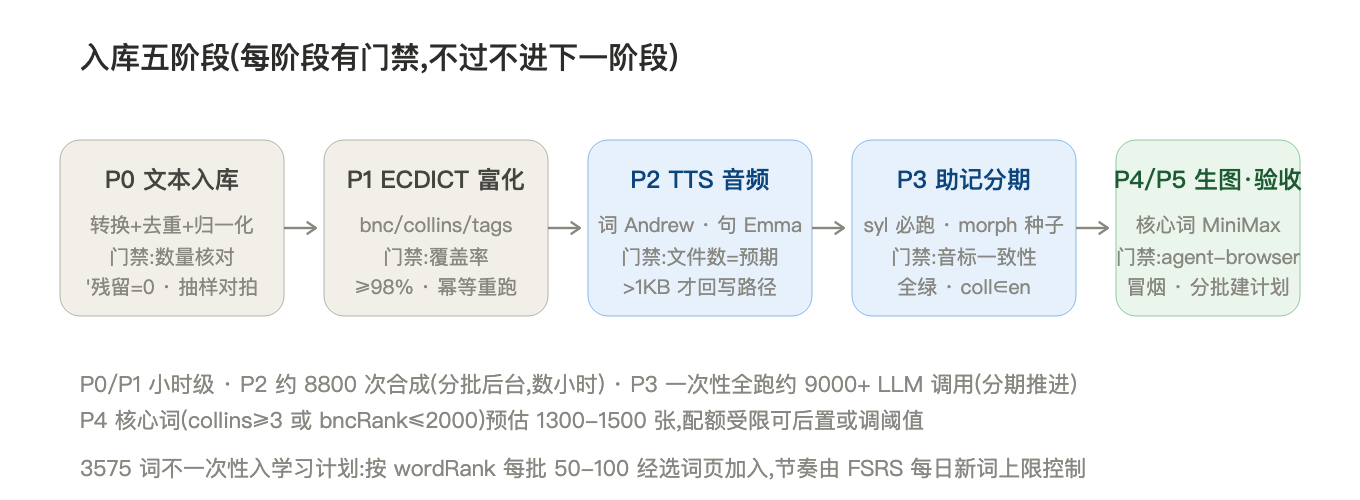
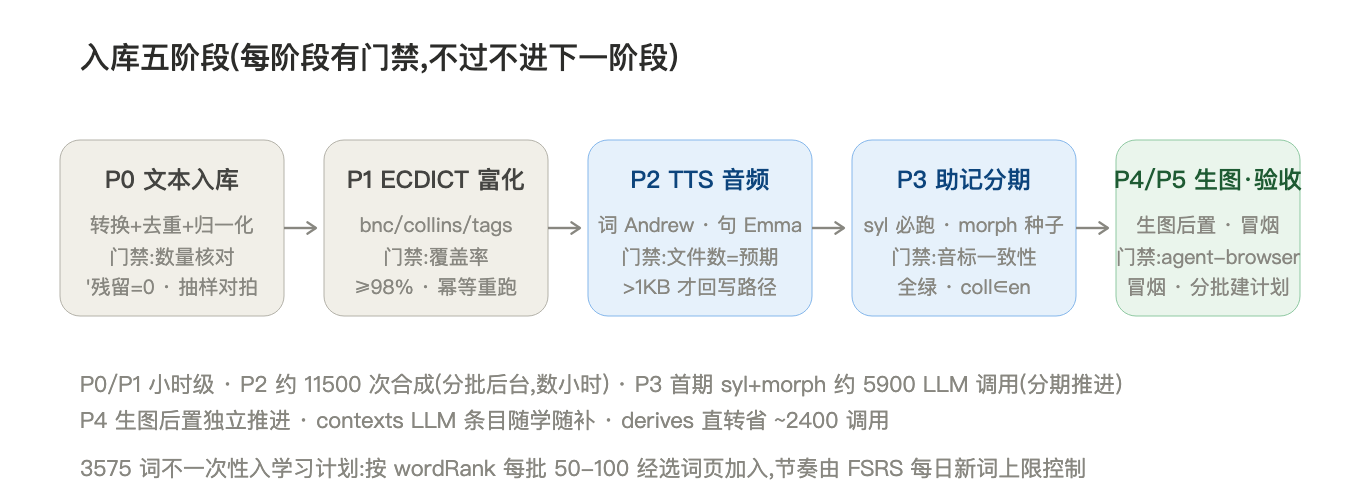
docs: 入库计划决策点落锤(D1-D6)+例句全取修订;v2.9 契约(coll 可选/morphSeed/WordContext)

Changed region(s): [[0.0618, 0.75, 0.8338, 0.87], [0.8338, 0.42, 0.9574, 0.48]]

diff --git a/src/db/schema.ts b/src/db/schema.ts
@@ -593,6 +593,21 @@ export interface WordCollocation {
   /** 词组中文,如 "取消；抵销"(可空) */
   cn?: string;
 }
+/** 真实语境条目(v2.5 单字段自含词组 + 例句音频;v2.9 例句全取时 coll 转可选) */
+export interface WordContext {
+  /** 词组英文(句中高亮锚点,可空——无词组命中的例句省略,渲染兜底高亮词头) */
+  coll?: string;
+  /** 词组中文(可空) */
+  collZh?: string;
+  /** 例句英文 */
+  en: string;
+  /** 例句中文(可空) */
+  cn?: string;
+  /** 例句音频路径(空表示未生成) */
+  audio?: string;
+  /** 血缘:example=回填/导入从例句复制;缺省=LLM 生成 */
+  src?: "llm" | "example";
+}
 export interface WordContent {
   /** 中文释义(多行,百词斩 mean_cn 按 "；" 拆) */
   translation: string[];
@@ -602,6 +617,10 @@ export interface WordContent {
   examples: WordExample[];
   /** 独立词组清单(可空,v2.8 词书源落库;contexts 仍为渲染唯一来源,见 docs/单词助记系统设计.md §2.4) */
   collocations?: WordCollocation[];
+  /** 真实语境(可空,LLM 生成 + 例句回填/导入双来源,见 docs/单词助记系统设计.md §2.4 v2.9) */
+  contexts?: WordContext[];
+  /** 构词拆分原文种子(可空,v2.9 词书 remMethod 原样整存,gen-mnemonic prompt 种子 + 血缘留档) */
+  morphSeed?: string;
   /** 词根拆解(可空,ECDICT wordroot.txt) */
   root?: string;
   /** 词形变化/重点短语(可空,百词斩 sentence_phrase / ECDICT exchange) */

diff --git a/src/components/vocab/mnemonic-radial.tsx b/src/components/vocab/mnemonic-radial.tsx
@@ -54,7 +54,8 @@ export interface MnDerive {
   meaningZh: string;
 }
 export interface MnContext {
-  coll: string;
+  /** 词组高亮锚点(可选 v2.9:全部例句入 contexts 时无词组命中的句子省略,渲染兜底高亮词头) */
+  coll?: string;
   collZh?: string;
   en: string;
   cn?: string;

diff --git a/docs/新东方雅思词汇3575入库计划.md b/docs/新东方雅思词汇3575入库计划.md
@@ -1,6 +1,6 @@
 # 新东方雅思词汇 3575 入库计划
 
-> 状态:**待拍板**(§7 决策点确认后动工) · 2026-09-07
+> 状态:**已拍板,实施中**(§7 决策点 2026-09-07 全部确认;D3 修订为例句全取,生图/contexts LLM 后置) · 2026-09-07
 > 数据源:`~/Downloads/新东方雅思词汇.json`(bookId=IELTS_3,百词斩导出 JSONL,5.8MB,3575 词)
 > 关联:`docs/单词助记系统设计.md` §2.4(v2.8 collocations 回归)、`scripts/backfill-collocations.mjs`(已上线)
 
@@ -20,7 +20,7 @@
 | --- | --- | --- | --- |
 | `trans` | **100%** | 中文释义(tranCn)+ POS + 英文释义(tranOther) | `translation[]` / `definition[]` |
 | `ukphone` / `usphone` | 99.5% / 98% | 英美音标(**重音符是 `'` 非 IPA `ˈ`**) | `phonetic_uk` / `phonetic_us`(归一化) |
-| `sentence` | 96.4%(5587 句) | 中英对照例句,每词 1–3 条 | `examples[]`(取前 2) |
+| `sentence` | 96.4%(5587 句) | 中英对照例句,每词 1–3 条 | **全部** → `contexts[]`(`src:"example"`);首条另存 `examples[0]`(默写卡判分用) |
 | `relWord` | 81% | 同根词(hwd/tran/pos) | `derives[]` **直转**(决策点 D2) |
 | `phrase` | 70%(2500 词) | 词组搭配(pContent/pCn) | `collocations[]`(v2.8 已有规则) |
 | `remMethod` | 67.5%(2413 词) | 词根拆分记忆法原文 | `morphSeed`(决策点 D1) |
@@ -42,9 +42,9 @@
 | `usphone` | `words.phonetic_us` | 同上 |
 | `trans[].pos + tranCn` | `contentJson.translation[]` | 首段 `pos.段1`,余段按 "；" 拆,清洗 `tranCn` 内不规则空格(`取消， 废除` → `取消，废除`) |
 | `trans[].tranOther` | `contentJson.definition[]` | 多词条合并 |
-| `sentence.sentences` | `contentJson.examples[]` | 取**前 2 条** `{en, cn}`(决策点 D3);音频 P2 阶段合成回写 |
+| `sentence.sentences` | `contentJson.contexts[]` + `examples[0]` | **例句全取**(决策点 D3 修订):全部例句进 `contexts[]` `{en, cn, audio?, src:"example"}`,词组命中条带 `coll/collZh`;首条同时写 `examples[0]`(语境默写卡 `exampleBlank` 判分唯一来源);音频 P2 阶段合成回写 |
 | `phrase.phrases` | `contentJson.collocations[]` | 复用 v2.8 规则:`{phrase, cn}`,去空格、词组=单词本身剔除、大小写去重 |
-| 例句 ⊃ 词组 | `contentJson.contexts[]` 追加 | v2.8 回填规则:精确包含(小写、不做屈折)→ `{coll, collZh, en, cn, audio: 复用例句音频, src: "example"}`;同 coll 已存在跳过 |
+| 例句 ⊃ 词组 | `contexts[]` 条目带锚点 | 例句精确包含词组(小写)→ 该 contexts 条目补 `{coll: phrase, collZh: cn}`;未命中条目省略 `coll`(v2.9 契约,coll 可选,渲染兜底高亮词头) |
 | `relWord.rels` | `contentJson.derives[]` | **直转**:`hwd→word, tran→meaningZh, pos→标准缩写(n./v./adj./adv.)`,上限 5 条(决策点 D2) |
 | `remMethod.val` | `contentJson.morphSeed`(新字段,string 可空) | 拆分原文整存(如 `pre(预先) + par(安排) + e → 提前安排 → 准备，预备`),gen-mnemonic 作 prompt 种子,生成 morph 后保留作血缘(决策点 D1) |
 | `wordRank` | `book_word_relation.order` | 学习序即词书序(乱序版更科学,但本书为正序版,order 按原序) |
@@ -60,7 +60,7 @@
 新脚本 `scripts/import-xdf-ielts.mjs`(复用 `import-vocab-pipeline.mjs` 的 better-sqlite3+drizzle 直写模式与 `backfill-collocations.mjs` 的转换规则,不与百词斩在线 API 混用):
 
 1. 读 JSONL → 逐词转换(§3 规则)→ dry-run 报告(数量、抽样 10 词字段对拍、异常清单)
-2. `--apply` 写库(自动备份 app.db):新词插 `words`(含 collocations/derives 直转/morphSeed/contexts 回填),重叠词仅补 `morphSeed`(其 collocations/contexts 已于 496e0cc 回填)
+2. `--apply` 写库(自动备份 app.db):新词插 `words`(含 collocations/derives 直转/morphSeed/contexts 例句全取),重叠词仅补 `morphSeed`(其 collocations/contexts 已于 496e0cc 回填)
 3. 建 `word_books` 行 + `book_word_relation`(order=wordRank,幂等:重复导入清旧重挂)
 
 **门禁**:总行数 3575 / 净新增 2942 / 重叠 633 三数核对;`phonetic_uk` 含 `'` 残留 = 0;抽样对拍无 diff。
@@ -71,15 +71,15 @@
 
 **门禁**:bncRank/collins 覆盖率 ≥98%;重跑零变更。
 
-### P2 TTS 音频(约 8800 次合成,分批后台数小时)
+### P2 TTS 音频(约 11500 次合成,分批后台数小时)
 
 - 单词音频:2942 次,`en-US-AndrewMultilingualNeural --rate=-8%`(注:存量单词音频降速重跑任务仍在待办,新词直接用新参数,一次到位)
-- 例句音频:约 5884 次(2942×2),`en-US-EmmaMultilingualNeural --rate=-8%`
+- 语境例句音频:约 5587 次(例句全取 2942 词 96.4% 覆盖),`en-US-EmmaMultilingualNeural --rate=-8%`,落 `public/audio/contexts/` 回写 `contexts[].audio`(与 examples 音频同参数同机制;examples[0] 与 contexts 首条同句时 contexts 音频路径直接复用同一文件)
 - 沿用 ">1KB 才回写路径、失败不阻塞" 既有机制;SSL 重试已有
 
 **门禁**:文件数=预期数;抽样 >1KB;回写率报告。
 
-### P3 助记分期(最大成本项,分期推进)
+### P3 助记分期(最大成本项,分期推进;**首期实施,二期 contexts 随学随补**)
 
 LLM 调用量测算(净增 2942 词,四路助记):
 
@@ -88,16 +88,16 @@ LLM 调用量测算(净增 2942 词,四路助记):
 | syl 读音解析 | 2942 | **2942(必跑,不可替代)** | 运行时切分不落库,LLM 唯一来源 |
 | morph 构词 | 2942 | 2942(67.5% 有 morphSeed 种子,准确率提升、调用数不变) | kind 判定不可靠,不直转 |
 | derives 派生 | 2942 | **仅 ~560(19%)** | relWord 81% 已直转(决策点 D2) |
-| contexts 语境 | 2942 | ~2600,可分期 | 例句命中词组的已回填(src=example),LLM 以 collocations 为 coll 种子 |
+| contexts 语境 | 2942 | **后置,随学随补**(决策点 D6) | 例句已全量进 contexts(src=example),LLM 条目按学习进度分期生成,以 collocations ≤6 条为 coll 种子(D5) |
 
 - **首期**:syl + morph(约 5900 调用,按 563 库经验分批)→ 每批跑 `check-phonetic-consistency.mjs` 门禁
-- **二期**:derives 补缺(~560)+ contexts(按学习进度分期生成——学到哪批补哪批,不必一次性 2600)
+- **二期**:derives 补缺(~560)+ contexts LLM 条目(按学习进度分期——学到哪批补哪批)
 
-**门禁**:音标一致性全绿;contexts 每条 coll 可在 en 中定位;结构自检(pieces/pos/coll 契约)通过。
+**门禁**:音标一致性全绿;contexts 每条带 coll 的条目可在 en 中定位;结构自检(pieces/pos/coll 契约)通过。
 
-### P4 生图(核心词,可后置)
+### P4 生图(核心词,**已拍板后置**,独立推进)
 
-阈值 `collins≥3 或 bncRank≤2000`(现有 `isCoreWord` 逻辑),按 563 库比例预估 1300–1500 张,MiniMax image-01 异步、失败不阻塞。
+阈值 `collins≥3 或 bncRank≤2000`(现有 `isCoreWord` 逻辑),按 563 库比例预估 1300–1500 张,MiniMax image-01 异步、失败不阻塞。**不在本计划执行**(决策点 D4),P0–P3 完成即具备背诵条件。
 
 **门禁**:png >1KB 才回写 `contentJson.image`;0 字节残留不算有图(既有 `vocab-card-policy` 语义)。
 
@@ -125,20 +125,23 @@ LLM 调用量测算(净增 2942 词,四路助记):
 | 生图配额 | P4 可后置/调阈值,不阻塞 P5 |
 | 音标归一化误伤 | 仅处理新词;' 在存量库仅 2 处(撇号类词),不碰存量 |
 
-## 7. 待拍板决策点
+## 7. 决策点(2026-09-07 已拍板)
 
-| # | 决策 | 建议 |
+| # | 决策 | 结论 |
 | --- | --- | --- |
-| D1 | `morphSeed` 新字段(string 可空,remMethod 原文) | **加**——gen-mnemonic 种子 + 血缘可追溯;异步「补全助记」路径也能拿到种子(否则只能批量脚本读 JSON) |
-| D2 | derives 直转(relWord 81%) | **直转**——省 ~2400 次 LLM 调用,relWord 与 derives 契约完全同构;19% 无 relWord 的词走 LLM |
-| D3 | 例句取几条 | **前 2 条**——语境/默写卡素材余量充足,TTS 成本可控 |
-| D4 | 生图是否进本计划 | **后置**——P0–P3 完成即具备背诵条件,P4 独立推进 |
-| D5 | collocations 种子上限 | **≤6 条**——喂给 gen-mnemonic context/morph prompt 的种子数 |
-| D6 | contexts LLM 生成的时机 | **随学随补**——按计划批次生成,避免一次性 2600 调用积压 |
+| D1 | `morphSeed` 新字段(string 可空,remMethod 原文) | ✅ **加**——gen-mnemonic 种子 + 血缘可追溯;异步「补全助记」路径也能拿到种子 |
+| D2 | derives 直转(relWord 81%) | ✅ **直转**——省 ~2400 次 LLM 调用,relWord 与 derives 契约完全同构;19% 无 relWord 的词走 LLM |
+| D3 | 例句取几条 | ✅ **修订为例句全取**(用户 2026-09-07 明确):全部例句进 `contexts[]`(词组命中条带 `coll`),首条另存 `examples[0]` 供默写卡判分;`coll` 契约转可选(v2.9) |
+| D4 | 生图是否进本计划 | ✅ **后置**——P0–P3 完成即具备背诵条件,P4 独立推进 |
+| D5 | collocations 种子上限 | ✅ **≤6 条**——喂给 gen-mnemonic context/morph prompt 的种子数 |
+| D6 | contexts LLM 生成的时机 | ✅ **随学随补**——按计划批次生成,不一次性积压 |
+
+**存量 633 词 morph 修复**(用户同日指示,纳入本计划 P0 附件):对比已完成——分段一致 55(不动)/ 分段不一致 22(按 remMethod 重生成)/ 整词误标 2(重生成)/ 有 remMethod 无 morph 339(补生成,确定性解析直出,A 方案)/ 有 morph 无 remMethod 22(无对照,不动)。修复规则:remMethod `片段(意思) + 片段 → 字面 → 释义` 确定性解析为 morph pieces,同时落 morphSeed。
 
 ## 8. 验收总口径
 
 - words 总行数 647 + 2942 = **3589**;book 17 词书关联 3575 行
 - 三数核对通过;音标格式统一(`/ˈ…/`);`check-phonetic-consistency` 全绿
+- 存量 morph 修复:24 词重生成 + 339 词补生成,分段对拍通过
 - 音频/图片回写率报告;agent-browser 冒烟 5 词通过
 - 过程全部只 commit 不 push,大阶段完成后统一 push
